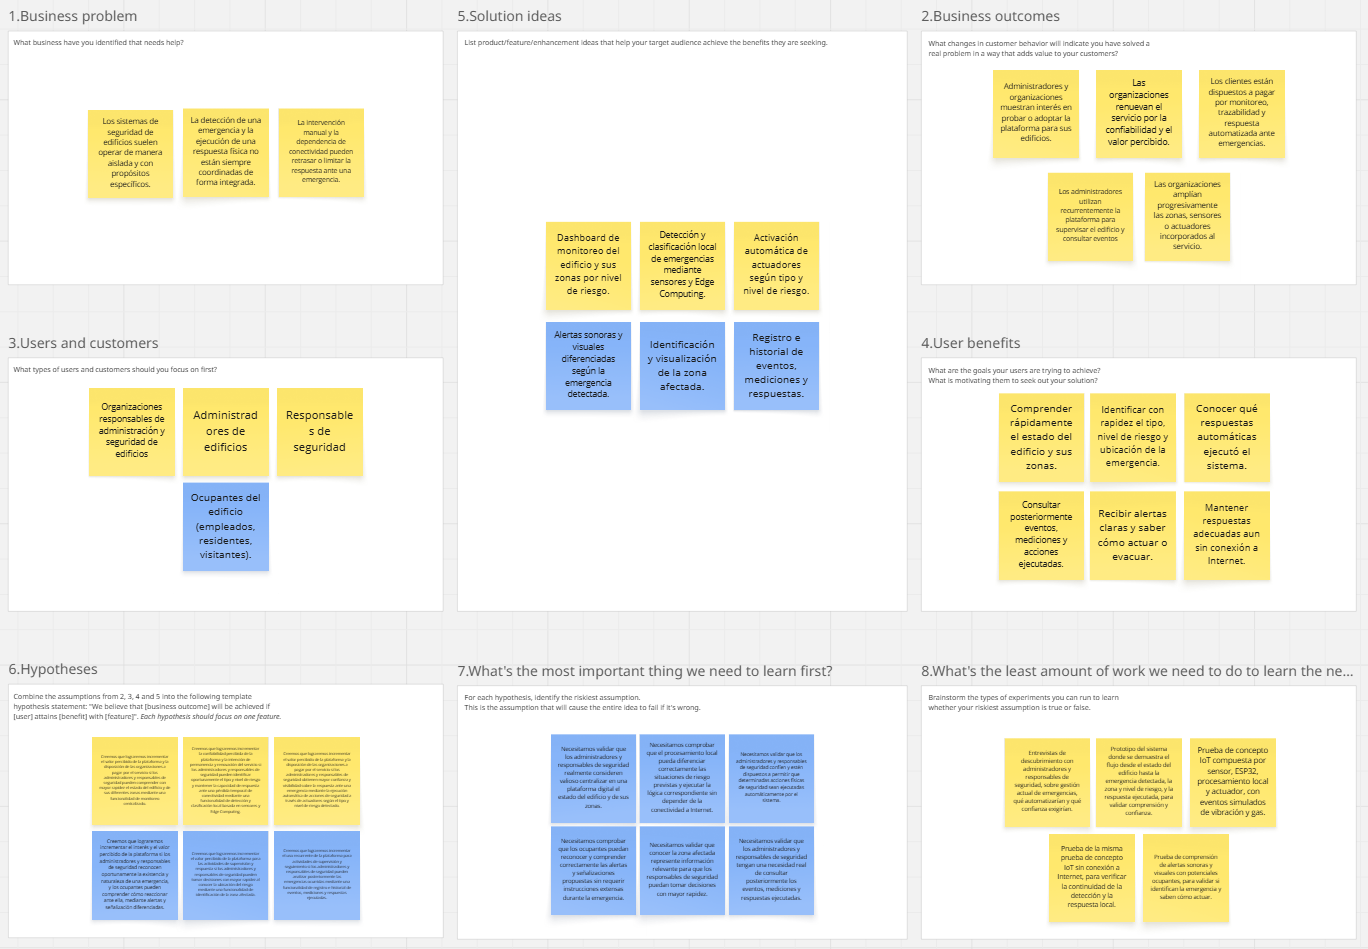
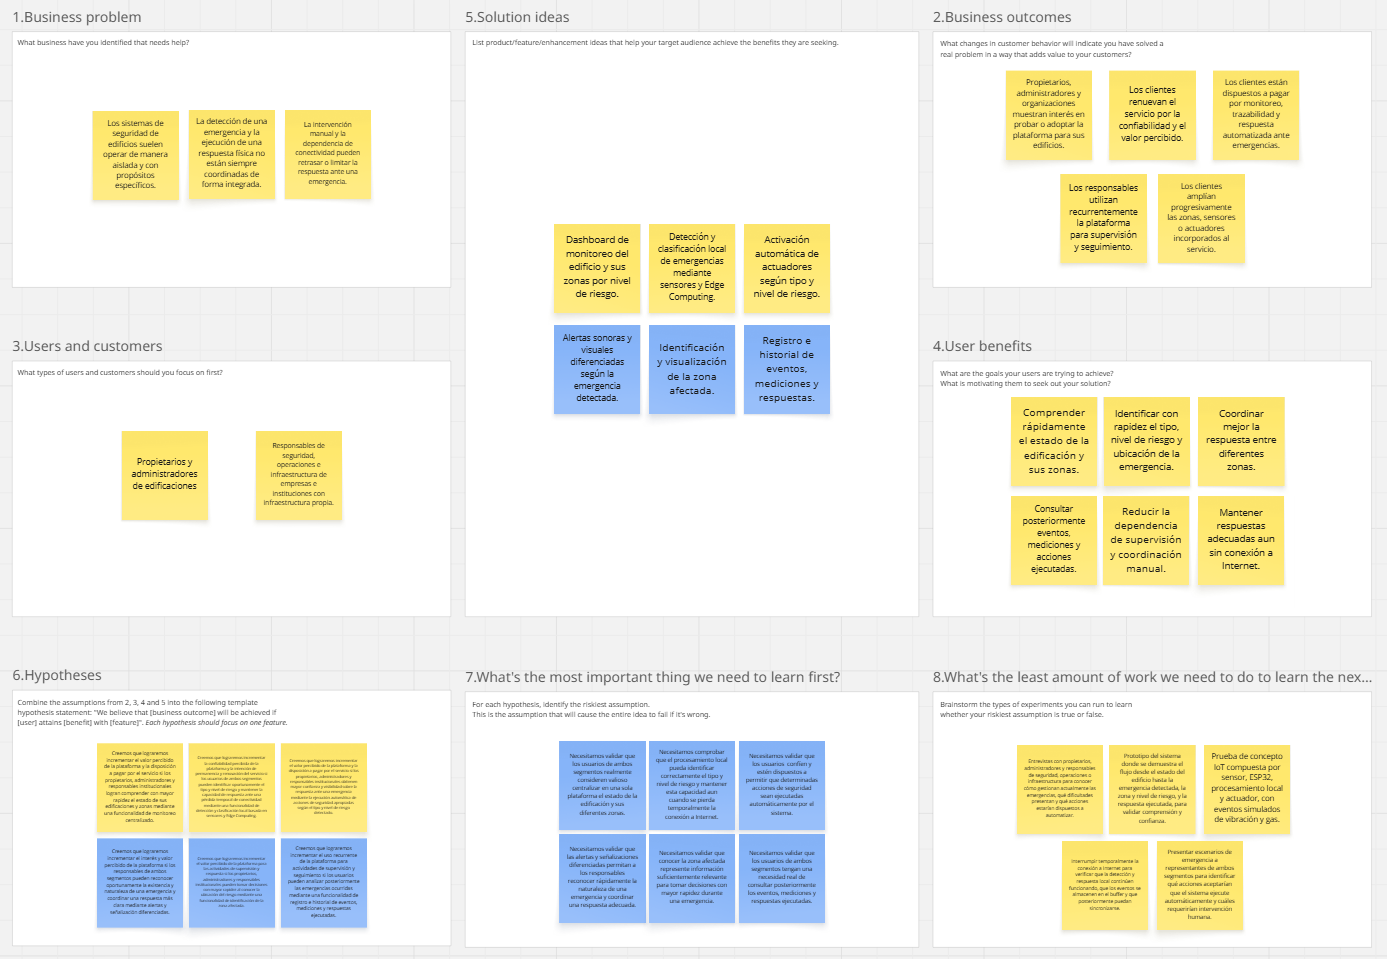
fix(chapter1): correct user segments information in lean ux process

diff --git a/docs/01-introduction.md b/docs/01-introduction.md
@@ -25,20 +25,20 @@ Lo que las soluciones existentes no suelen resolver de manera integrada es la co
 
 Nuestra solución abordará esta brecha mediante una plataforma IoT capaz de monitorear variables ambientales y fisicas del edificio, procesar localmente la información obtenida de los sensores mediante Edge Computing, clasificar el tipo y grado de la emergencia y ejecutar acciones automáticas a través de actuadores (alarmas, luces de evacuación, ventilación, cierre de válvula) mientras reporta el evento y el estado del edificio en tiempo real.
 
-Nuestro enfoque inicial estará dirigido a los administradores y responsables de la seguridad de edificios que requieren supervisar las condiciones de la infraestructura para responder oportunamente ante situaciones de riesgo, contribuyendo a la seguridad de los ocupantes.
+Nuestro enfoque inicial estará dirigido a los propietarios y administradores de edificaciones que requieren supervisar las condiciones de seguridad de sus instalaciones para responder oportunamente ante situaciones de riesgo. La propuesta también estará orientada a responsables de seguridad, operaciones e infraestructura de empresas e instituciones que necesitan centralizar el monitoreo y coordinar respuestas en instalaciones con diferentes zonas y niveles de concurrencia.
 
-Sabremos que hemos tenido éxito cuando los administradores y responsables de seguridad utilicen la aplicación para monitorear el estado del edificio, identificar alertas por zona en tiempo real, y verifiquen la activación automática de respuestas adecuadas de los actuadores en cuestión de segundos tras superar el umbral de riesgo. Asimismo, consideraremos que los ocupantes puedan reconocer fácilmente las alertas y comprendan las indicaciones de evacuación asociadas al tipo de emergencia.
+Sabremos que hemos tenido éxito cuando los representantes de ambos segmentos utilicen la aplicación para monitorear el estado del edificio, reconocer el tipo y nivel de riesgo, ubicar la zona afectada, verificar la activación automática de respuestas adecuadas de los actuadores y consultar posteriormente los eventos registrados. Asimismo, consideraremos el interés de estos responsables por incorporar nuestra solución como complemento de sus mecanismos actuales de seguridad.
 
 #### 1.2.2.2. Lean UX Assumptions
 
 **Business Assumptions:**
 
-1. Creemos que existe una demanda insatisfecha en el mercado de administración de edificios por soluciones que centralicen monitoreo y respuesta ante emergencias, actualmente cubierta solo parcialmente por sistemas aislados.
+1. Creemos que existe una demanda insatisfecha en el mercado de administración de edificios por soluciones que centralicen monitoreo y respuesta ante emergencias, actualmente cubierta parcialmente por sistemas aislados.
 2. Creemos que existe una oportunidad para integrar en una única solución IoT la detección, clasificación, localización y respuesta automática ante situaciones de riesgo dentro de edificios.
-3. Creemos que las organizaciones responsables de la administración de edificios estarán dispuestas a adoptar una solución que complemente sus mecanismos actuales de seguridad mediante monitoreo y automatización.
+3. Creemos que los propietarios y administradores de edificaciones, así como las empresas e instituciones con infraestructura propia, estarán dispuestas a adoptar una solución que complemente sus mecanismos actuales de seguridad mediante monitoreo y automatización.
 4. Creemos que la capacidad de ejecutar respuestas críticas localmente, sin depender permanentemente de la conectividad a Internet, constituirá un elemento diferenciador de la propuesta frente a sistemas que requieren comunicación constante con servicios externos.
 5. Creemos que un modelo de servicio orientado a edificios permitirá escalar progresivamente la solución mediante la incorporación de nuevos sensores, actuadores, zonas y dispositivos IoT según las necesidades de cada organización.
-6. Creemos que las organizaciones estarán dispuestas a asumir un costo por una solución que contribuya al monitoreo continuo, la trazabilidad de eventos y la automatización de determinadas respuestas de seguridad.
+6. Creemos que los clientes estarán dispuestos a asumir un costo por una solución que contribuya al monitoreo continuo, la trazabilidad de eventos y la automatización de determinadas respuestas de seguridad.
 
 **Business Outcome Assumptions:**
 
@@ -50,41 +50,43 @@ Sabremos que hemos tenido éxito cuando los administradores y responsables de se
 6. Creemos que una implementación satisfactoria del MVP permitirá validar el interés de potenciales clientes y justificar la evolución de la solución hacia una mayor cantidad de dispositivos, tipos de emergencia y capacidades de respuesta.
 
 **User Assumptions:**
-1. Creemos que los administradores y responsables de seguridad de edificios constituyen los principales usuarios encargados de supervisar las condiciones de seguridad y coordinar las acciones frente a situaciones de emergencia.
-2. Creemos que los administradores y responsables de seguridad necesitan conocer continuamente el estado general del edificio y de las diferentes zonas bajo su supervisión.
-3. Creemos que los administradores y responsables de seguridad requieren identificar rápidamente qué tipo de emergencia está ocurriendo, cuál es su nivel de riesgo y en qué zona se ha producido.
-4. Creemos que los responsables de seguridad necesitan conocer qué acciones automáticas fueron ejecutadas por el sistema durante una situación de riesgo para comprender la respuesta aplicada.
-5. Creemos que los administradores necesitan consultar posteriormente información sobre los eventos ocurridos para realizar actividades de seguimiento y análisis.
-6. Creemos que los administradores y responsables de seguridad cuentan con acceso habitual a dispositivos digitales, como smartphones o computadoras, y están familiarizados con el uso de aplicaciones para tareas de supervisión.
-7. Creemos que los ocupantes del edificio necesitan recibir alertas comprensibles que les permitan reconocer rápidamente la existencia de una situación de emergencia.
-8. Creemos que los ocupantes estarán dispuestos a seguir señalizaciones e indicaciones automatizadas de seguridad o evacuación cuando estas sean claras, reconocibles y fáciles de comprender.
+
+1. Creemos que los propietarios y administradores de edificaciones necesitan supervisar continuamente las condiciones de seguridad de las instalaciones bajo su responsabilidad.
+2. Creemos que los responsables de seguridad, operaciones e infraestructura de empresas e instituciones necesitan centralizar la información proveniente de diferentes zonas de sus instalaciones.
+3. Creemos que ambos segmentos necesitan identificar rápidamente qué tipo de emergencia está ocurriendo, cuál es su nivel de riesgo y dónde se ha producido.
+4. Creemos que ambos segmentos necesitan conocer qué respuestas automáticas fueron ejecutadas por el sistema durante una situación de riesgo.
+5. Creemos que los administradores y responsables institucionales necesitan consultar posteriormente información sobre los eventos ocurridos para realizar actividades de seguimiento y análisis.
+6. Creemos que los usuarios de ambos segmentos cuentan habitualmente con acceso a dispositivos digitales y están familiarizados con aplicaciones utilizadas para tareas de supervisión o gestión.
+7. Creemos que los responsables de empresas e instituciones necesitan supervisar múltiples zonas desde una visión centralizada para coordinar adecuadamente una respuesta.
+8. Creemos que los responsables de ambos segmentos valorarán una solución que pueda incorporarse progresivamente a la infraestructura existente sin requerir una sustitución completa de sus mecanismos actuales de seguridad.
 
 **User Outcome and Benefit Assumptions:**
-1. Creemos que los administradores y responsables de seguridad podrán comprender con mayor rapidez el estado del edificio al contar con la información de los sensores y alertas centralizada en una misma plataforma.
-2. Creemos que los responsables de seguridad podrán tomar decisiones con mayor rapidez al conocer el tipo de emergencia, el nivel de riesgo y la zona afectada.
-3. Creemos que los administradores tendrán mayor visibilidad sobre la respuesta del sistema al poder verificar qué actuadores fueron activados durante cada evento.
-4. Creemos que los responsables de seguridad podrán realizar un mejor seguimiento de las emergencias mediante el acceso al historial de eventos, mediciones y acciones ejecutadas por el sistema.
-5. Creemos que los ocupantes podrán reconocer con mayor facilidad una situación de emergencia mediante alertas sonoras y visuales diferenciadas.
-6. Creemos que los ocupantes podrán reaccionar de manera más adecuada ante una emergencia al recibir señalización e indicaciones relacionadas con la situación detectada.
-7. Creemos que los administradores y responsables de seguridad tendrán mayor confianza en la continuidad de la respuesta del sistema al mantener las acciones críticas de manera local aun cuando se pierda temporalmente la conexión a Internet.
+
+1. Creemos que los propietarios, administradores y responsables institucionales podrán comprender con mayor rapidez el estado de sus edificaciones al contar con información de sensores y alertas centralizada en una misma plataforma.
+2. Creemos que podrán tomar decisiones con mayor rapidez al conocer el tipo de emergencia, el nivel de riesgo y la zona afectada.
+3. Creemos que tendrán mayor visibilidad sobre la respuesta del sistema al poder verificar qué acciones automáticas fueron ejecutadas durante cada evento.
+4. Creemos que podrán realizar un mejor seguimiento de las emergencias mediante el acceso al historial de eventos, mediciones y acciones ejecutadas.
+5. Creemos que los responsables de empresas e instituciones podrán coordinar mejor la respuesta ante una emergencia al disponer de información centralizada sobre las diferentes zonas de sus instalaciones.
+6. Creemos que ambos segmentos podrán reducir su dependencia de la supervisión y coordinación completamente manual durante los primeros momentos de una emergencia.
+7. Creemos que tendrán mayor confianza en la continuidad de la respuesta del sistema al mantenerse las acciones críticas locales aun cuando se pierda temporalmente la conexión a Internet.
 
 **Feature Assumptions:**
 
-1. Creemos que una funcionalidad de **monitoreo del estado del edificio y sus zonas** permitirá a los administradores y responsables de seguridad conocer las condiciones actuales y detectar rápidamente la existencia de una situación de riesgo.
+1. Creemos que una funcionalidad de **monitoreo del estado del edificio y sus zonas** permitirá a los usuarios de ambos segmentos conocer las condiciones actuales y detectar rápidamente la existencia de una situación de riesgo.
 2. Creemos que una funcionalidad de **detección y clasificación local de emergencias mediante sensores y Edge Computing** permitirá identificar el tipo y nivel de riesgo sin depender permanentemente de servicios externos.
 3. Creemos que una funcionalidad de **respuesta automática mediante actuadores** permitirá ejecutar acciones de seguridad apropiadas según el tipo y nivel de riesgo detectado.
-4. Creemos que una funcionalidad de **alertas y señalización diferenciadas** permitirá comunicar a administradores, responsables de seguridad y ocupantes, la existencia y naturaleza de una situación de emergencia.
+4. Creemos que una funcionalidad de **alertas y señalización diferenciadas** permitirá a los responsables reconocer oportunamente la existencia y gravedad de una emergencia, y facilitar la comunicación de la respuesta.
 5. Creemos que una funcionalidad de **identificación de la zona afectada** permitirá a los responsables de seguridad localizar con mayor rapidez el origen del evento y orientar adecuadamente la respuesta.
 6. Creemos que una funcionalidad de **registro e historial de eventos** permitirá consultar posteriormente las emergencias detectadas, las mediciones registradas y las respuestas ejecutadas por el sistema.
 
 #### 1.2.2.3. Lean UX Hypothesis Statements
 
-1. Creemos que lograremos incrementar el valor percibido de la plataforma y la disposición de las organizaciones a pagar por el servicio si los administradores y responsables de seguridad de edificios logran comprender con mayor rapidez el estado del edificio y de sus diferentes zonascon una funcionalidad de monitoreo del estado del edificio y sus zonas.
-2. Creemos que lograremos incrementar la confiabilidad percibida de la plataforma y, como consecuencia, la intención de permanencia y renovación del servicio si los administradores y responsables de seguridad pueden identificar oportunamente el tipo y nivel de riesgo de una emergencia y mantener la capacidad de respuesta aun frente a una pérdida temporal de conectividad a Internet mediante una funcionalidad de detección y clasificación local basada en sensores y Edge Computing.
-3. Creemos que lograremos incrementar el valor percibido de la plataforma y la disposición de las organizaciones a adoptar el servicio si los administradores y responsables de seguridad obtienen mayor confianza y visibilidad sobre la respuesta ante una emergencia mediante una funcionalidad que ejecute automáticamente acciones de seguridad apropiadas a través de actuadores según el tipo y nivel de riesgo detectado.
-4. Creemos que lograremos incrementar el interés y valor percibido de la plataforma si los administradores y responsables de seguridad pueden reconocer oportunamente la existencia y naturaleza de una emergencia, y los ocupantes pueden identificar con mayor facilidad la situación de riesgo y reaccionar de manera adecuada, mediante una funcionalidad de alertas sonoras y visuales y señalización diferenciada según el evento detectado.
-5. Creemos que lograremos incrementar el valor percibido de la plataforma para las actividades de supervisión y respuesta si los administradores y responsables de seguridad pueden tomar decisiones con mayor rapidez al conocer dónde se ha producido una situación de riesgo mediante una funcionalidad de identificación de la zona afectada.
-6. Creemos que lograremos incrementar el uso recurrente de la plataforma para actividades de supervisión y seguimiento si los administradores y responsables de seguridad pueden analizar posteriormente las emergencias ocurridas mediante una funcionalidad de registro e historial de los eventos detectados, las mediciones registradas y las respuestas ejecutadas por el sistema.
+1. Creemos que lograremos incrementar el valor percibido de la plataforma y la disposición a pagar por el servicio si los propietarios, administradores y responsables institucionales logran comprender con mayor rapidez el estado de sus edificaciones y zonas mediante una funcionalidad de monitoreo centralizado.
+2. Creemos que lograremos incrementar la confiabilidad percibida de la plataforma y la intención de permanencia y renovación del servicio si los usuarios de ambos segmentos pueden identificar oportunamente el tipo y nivel de riesgo y mantener la capacidad de respuesta ante una pérdida temporal de conectividad mediante una funcionalidad de detección y clasificación local basada en sensores y Edge Computing.
+3. Creemos que lograremos incrementar el valor percibido de la plataforma y la disposición a pagar por el servicio si los propietarios, administradores y responsables institucionales obtienen mayor confianza y visibilidad sobre la respuesta ante una emergencia mediante la ejecución automática de acciones de seguridad apropiadas según el tipo y nivel de riesgo detectado.
+4. Creemos que lograremos incrementar el interés y valor percibido de la plataforma si los responsables de ambos segmentos pueden reconocer oportunamente la existencia y naturaleza de una emergencia y coordinar una respuesta más clara mediante alertas y señalización diferenciadas.
+5. Creemos que lograremos incrementar el valor percibido de la plataforma para las actividades de supervisión y respuesta si los propietarios, administradores y responsables institucionales pueden tomar decisiones con mayor rapidez al conocer la ubicación del riesgo mediante una funcionalidad de identificación de la zona afectada.
+6. Creemos que lograremos incrementar el uso recurrente de la plataforma para actividades de supervisión y seguimiento si los usuarios pueden analizar posteriormente las emergencias ocurridas mediante una funcionalidad de registro e historial de eventos, mediciones y respuestas ejecutadas.
 
 #### 1.2.2.4. Lean UX Canvas
 
